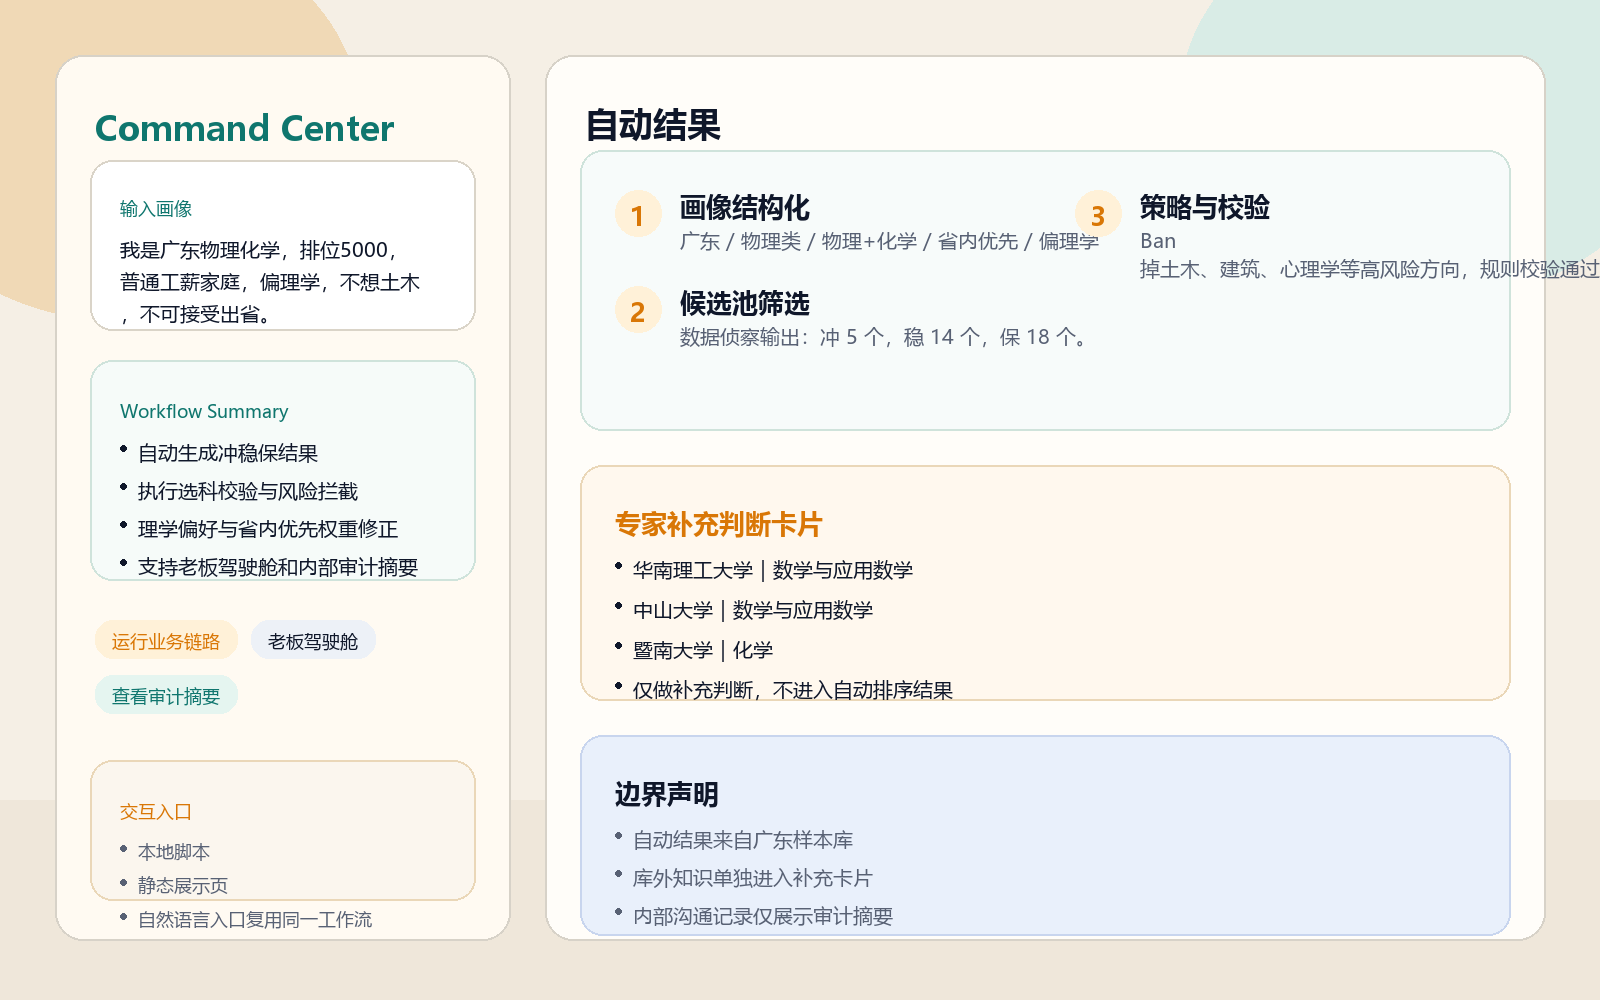
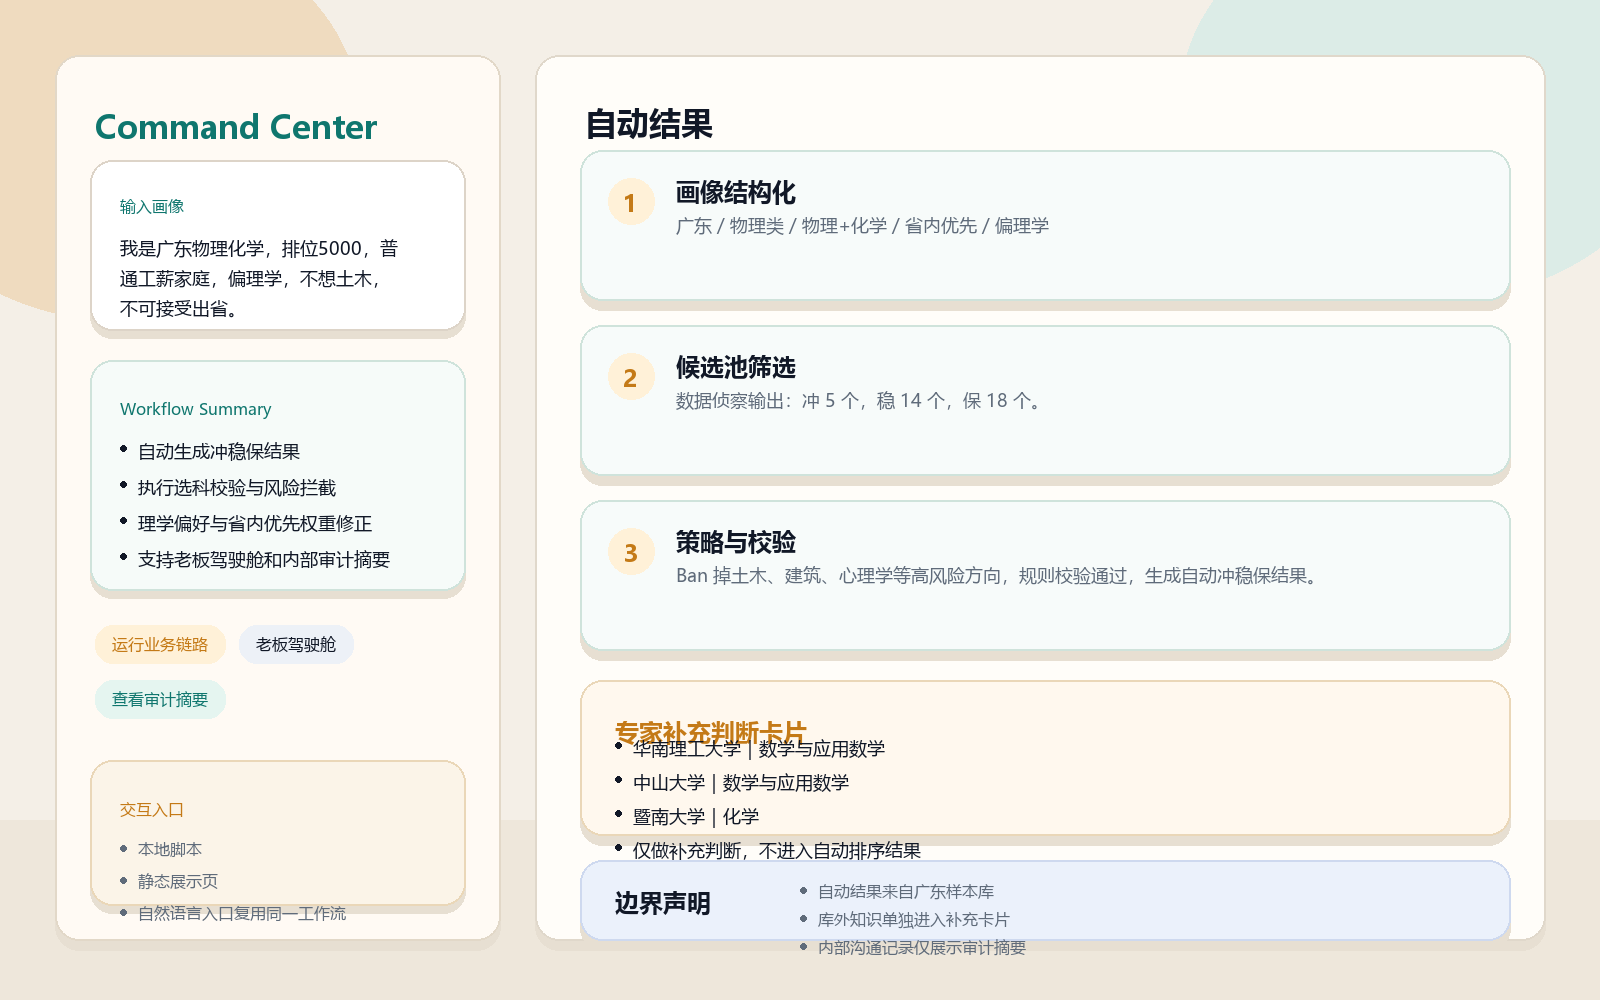
Refine portfolio presentation

Changed region(s): [[0.0625, 0.062, 1.0, 0.961], [0.0625, 0.093, 0.25, 0.155], [0.5938, 0.403, 0.625, 0.434]]

diff --git a/scripts/generate_showcase_images.py b/scripts/generate_showcase_images.py
@@ -9,18 +9,18 @@ OUT_DIR.mkdir(parents=True, exist_ok=True)
 
 WIDTH = 1600
 HEIGHT = 1000
-BG = "#f5efe5"
-INK = "#0f172a"
+BG = "#f4efe7"
+INK = "#111827"
 TEAL = "#0f766e"
-COPPER = "#d97706"
-CARD = "#fffdf8"
-MUTED = "#586174"
-LINE = "#d7d2c8"
-SOFT = "#eef7f4"
-BLUE = "#e9f0fb"
-BLUE_LINE = "#c8d5ee"
-SAND = "#fbf6ee"
-SHADOW = "#e7e1d6"
+COPPER = "#c47a17"
+CARD = "#fffdf9"
+MUTED = "#5f6b7a"
+LINE = "#ddd4c7"
+SOFT = "#edf7f4"
+BLUE = "#ebf1fb"
+BLUE_LINE = "#ced9ef"
+SAND = "#fbf4e8"
+SHADOW = "#e7dfd2"
 
 
 def load_font(size: int, bold: bool = False):
@@ -35,11 +35,11 @@ def load_font(size: int, bold: bool = False):
     return ImageFont.load_default()
 
 
-TITLE = load_font(46, bold=True)
-H2 = load_font(34, bold=True)
-H3 = load_font(26, bold=True)
-BODY = load_font(20)
-SMALL = load_font(18)
+TITLE = load_font(42, bold=True)
+H2 = load_font(32, bold=True)
+H3 = load_font(24, bold=True)
+BODY = load_font(18)
+SMALL = load_font(16)
 
 
 def rounded(draw, box, radius=28, fill=CARD, outline=LINE, width=2):
@@ -118,9 +118,15 @@ def pill(draw, xy, label, fill="#eef3f7", ink=INK):
     return x + w + 14
 
 
+def elevated_card(draw, box, radius=24, fill=CARD, outline=LINE, shadow_offset=10):
+    x1, y1, x2, y2 = box
+    draw.rounded_rectangle((x1, y1 + shadow_offset, x2, y2 + shadow_offset), radius=radius, fill=SHADOW)
+    rounded(draw, box, radius=radius, fill=fill, outline=outline)
+
+
 def metric_block(draw, box, eyebrow, title, lines, fill="#fffaf2", outline=LINE):
     x1, y1, x2, y2 = box
-    rounded(draw, box, radius=24, fill=fill, outline=outline)
+    elevated_card(draw, box, radius=24, fill=fill, outline=outline)
     text(draw, (x1 + 30, y1 + 28), eyebrow, SMALL, TEAL)
     text(draw, (x1 + 30, y1 + 68), title, H3, INK)
     draw_bullets(draw, (x1 + 30, y1 + 122), lines, BODY, MUTED, MUTED, x2 - x1 - 70, 12)
@@ -132,12 +138,20 @@ def number_badge(draw, xy, label, fill="#fff1d8", ink=COPPER):
     text(draw, (x + 15, y + 8), label, H3, ink)
 
 
+def step_card(draw, box, number, title, content, fill="#f7fbfa", outline="#cfe3db"):
+    x1, y1, x2, y2 = box
+    elevated_card(draw, box, radius=22, fill=fill, outline=outline)
+    number_badge(draw, (x1 + 28, y1 + 28), number)
+    text(draw, (x1 + 96, y1 + 24), title, H3, INK)
+    draw_wrapped_text(draw, (x1 + 96, y1 + 62), content, BODY, x2 - x1 - 130, MUTED, 8)
+
+
 def make_canvas():
     image = Image.new("RGB", (WIDTH, HEIGHT), BG)
     draw = ImageDraw.Draw(image)
-    draw.ellipse((-120, -80, 360, 320), fill="#f0d9b6")
-    draw.ellipse((1180, -100, 1680, 300), fill="#d9ece6")
-    draw.rectangle((0, 800, WIDTH, HEIGHT), fill="#efe7da")
+    draw.ellipse((-120, -80, 360, 320), fill="#efdbbf")
+    draw.ellipse((1180, -100, 1680, 300), fill="#dcece7")
+    draw.rectangle((0, 820, WIDTH, HEIGHT), fill="#eee7db")
     return image, draw
 
 
@@ -149,10 +163,7 @@ def save(image: Image.Image, name: str):
 
 def overview():
     image, draw = make_canvas()
-    rounded(draw, (60, 60, 1030, 940), fill="#fffaf2")
-    rounded(draw, (1060, 60, 1540, 300), fill=SOFT, outline="#cfe3db")
-    rounded(draw, (1060, 330, 1540, 600), fill=SAND, outline="#ead7b8")
-    rounded(draw, (1060, 630, 1540, 940), fill=BLUE, outline=BLUE_LINE)
+    elevated_card(draw, (60, 60, 1030, 940), fill="#fffaf4", outline="#e2d8c8")
 
     text(draw, (110, 110), "AI Gaokao BP Expert", SMALL, TEAL)
     title_lines = [
@@ -176,7 +187,7 @@ def overview():
     metric_block(
         draw,
         (110, 585, 980, 885),
-        "Design Principles",
+        "Product Principles",
         "核心设计原则",
         [
             "业务拆分优先于单次问答，关键步骤必须可单独审计。",
@@ -205,7 +216,7 @@ def overview():
         fill=SAND,
         outline="#ead7b8",
     )
-    rounded(draw, (1060, 630, 1540, 940), radius=24, fill=BLUE, outline=BLUE_LINE)
+    elevated_card(draw, (1060, 630, 1540, 940), radius=24, fill=BLUE, outline=BLUE_LINE)
     text(draw, (1095, 670), "一句话定位", SMALL, TEAL)
     draw_wrapped_text(
         draw,
@@ -221,23 +232,23 @@ def overview():
 
 def command_center():
     image, draw = make_canvas()
-    rounded(draw, (55, 55, 510, 940), fill="#fffaf2")
-    rounded(draw, (545, 55, 1545, 940), fill="#fffdf9")
+    elevated_card(draw, (55, 55, 500, 940), fill="#fffaf4", outline="#e2d8c8")
+    elevated_card(draw, (535, 55, 1545, 940), fill="#fffdf9", outline="#e0d8cb")
 
     text(draw, (95, 105), "Command Center", H2, TEAL)
-    rounded(draw, (90, 160, 475, 330), radius=22, fill="#ffffff", outline="#dad4c8")
+    elevated_card(draw, (90, 160, 465, 330), radius=22, fill="#ffffff", outline="#ddd4c8", shadow_offset=8)
     text(draw, (120, 195), "输入画像", SMALL, TEAL)
     draw_wrapped_text(
         draw,
         (120, 235),
         "我是广东物理化学，排位5000，普通工薪家庭，偏理学，不想土木，不可接受出省。",
         BODY,
-        300,
+        280,
         INK,
         12,
     )
 
-    rounded(draw, (90, 360, 475, 580), radius=22, fill="#f6fbf9", outline="#cfe3db")
+    elevated_card(draw, (90, 360, 465, 590), radius=22, fill="#f6fbf9", outline="#cfe3db", shadow_offset=8)
     text(draw, (120, 398), "Workflow Summary", SMALL, TEAL)
     draw_bullets(
         draw,
@@ -251,16 +262,16 @@ def command_center():
         BODY,
         INK,
         INK,
-        300,
+        280,
         12,
     )
 
     x = 95
-    x = pill(draw, (x, 620), "运行业务链路", "#fff1d8", COPPER)
-    x = pill(draw, (x, 620), "老板驾驶舱", "#edf1f7", INK)
-    pill(draw, (95, 675), "查看审计摘要", "#e5f5f0", TEAL)
+    x = pill(draw, (x, 625), "运行业务链路", "#fff1d8", COPPER)
+    x = pill(draw, (x, 625), "老板驾驶舱", "#edf1f7", INK)
+    pill(draw, (95, 680), "查看审计摘要", "#e5f5f0", TEAL)
 
-    rounded(draw, (90, 760, 475, 900), radius=22, fill=SAND, outline="#ead7b8")
+    elevated_card(draw, (90, 760, 465, 905), radius=22, fill=SAND, outline="#ead7b8", shadow_offset=8)
     text(draw, (120, 798), "交互入口", SMALL, COPPER)
     draw_bullets(
         draw,
@@ -274,22 +285,15 @@ def command_center():
     )
 
     text(draw, (585, 100), "自动结果", H2, INK)
-    rounded(draw, (580, 150, 1510, 430), radius=22, fill="#f7fbfa", outline="#cfe3db")
-    number_badge(draw, (615, 190), "1")
-    text(draw, (680, 188), "画像结构化", H3, INK)
-    draw_wrapped_text(draw, (680, 226), "广东 / 物理类 / 物理+化学 / 省内优先 / 偏理学", BODY, 760, MUTED, 8)
-    number_badge(draw, (615, 286), "2")
-    text(draw, (680, 284), "候选池筛选", H3, INK)
-    draw_wrapped_text(draw, (680, 322), "数据侦察输出：冲 5 个，稳 14 个，保 18 个。", BODY, 760, MUTED, 8)
-    number_badge(draw, (1075, 190), "3")
-    text(draw, (1140, 188), "策略与校验", H3, INK)
-    draw_wrapped_text(draw, (1140, 226), "Ban 掉土木、建筑、心理学等高风险方向，规则校验通过。", BODY, 320, MUTED, 8)
+    step_card(draw, (580, 150, 1510, 300), "1", "画像结构化", "广东 / 物理类 / 物理+化学 / 省内优先 / 偏理学", fill="#f7fbfa", outline="#cfe3db")
+    step_card(draw, (580, 325, 1510, 475), "2", "候选池筛选", "数据侦察输出：冲 5 个，稳 14 个，保 18 个。", fill="#f7fbfa", outline="#cfe3db")
+    step_card(draw, (580, 500, 1510, 650), "3", "策略与校验", "Ban 掉土木、建筑、心理学等高风险方向，规则校验通过，生成自动冲稳保结果。", fill="#f7fbfa", outline="#cfe3db")
 
-    rounded(draw, (580, 465, 1510, 700), radius=22, fill="#fff8ee", outline="#ead7b8")
-    text(draw, (615, 505), "专家补充判断卡片", H3, COPPER)
+    elevated_card(draw, (580, 680, 1510, 835), radius=22, fill="#fff8ee", outline="#ead7b8")
+    text(draw, (615, 715), "专家补充判断卡片", H3, COPPER)
     draw_bullets(
         draw,
-        (615, 555),
+        (615, 735),
         [
             "华南理工大学｜数学与应用数学",
             "中山大学｜数学与应用数学",
@@ -300,28 +304,28 @@ def command_center():
         INK,
         INK,
         820,
-        14,
+        10,
     )
 
-    rounded(draw, (580, 735, 1510, 935), radius=22, fill=BLUE, outline=BLUE_LINE)
-    text(draw, (615, 775), "边界声明", H3, INK)
+    elevated_card(draw, (580, 860, 1510, 940), radius=22, fill=BLUE, outline=BLUE_LINE)
+    text(draw, (615, 885), "边界声明", H3, INK)
     draw_bullets(
         draw,
-        (615, 825),
+        (800, 880),
         ["自动结果来自广东样本库", "库外知识单独进入补充卡片", "内部沟通记录仅展示审计摘要"],
-        BODY,
+        SMALL,
         MUTED,
         MUTED,
-        820,
-        12,
+        680,
+        6,
     )
     return save(image, "02-command-center.png")
 
 
 def trace_boardroom():
     image, draw = make_canvas()
-    rounded(draw, (55, 55, 870, 940), fill="#fffdf9")
-    rounded(draw, (910, 55, 1545, 940), fill="#f7f7fb")
+    elevated_card(draw, (55, 55, 870, 940), fill="#fffdf9", outline="#e0d8cb")
+    elevated_card(draw, (910, 55, 1545, 940), fill="#f7f7fb", outline="#d7dbe6")
 
     text(draw, (95, 100), "内部审计摘要", H2, TEAL)
     steps = [
@@ -335,7 +339,7 @@ def trace_boardroom():
     ]
     y = 165
     for idx, actor, summary in steps:
-        rounded(draw, (95, y, 830, y + 92), radius=18, fill="#ffffff", outline="#d8dde7")
+        elevated_card(draw, (95, y, 830, y + 92), radius=18, fill="#ffffff", outline="#d8dde7", shadow_offset=6)
         rounded(draw, (115, y + 20, 160, y + 65), radius=20, fill="#fff1d8", outline="#fff1d8", width=1)
         text(draw, (130, y + 28), idx, H3, COPPER)
         text(draw, (190, y + 16), actor, H3, INK)
@@ -343,7 +347,7 @@ def trace_boardroom():
         y += 104
 
     text(draw, (945, 100), "老板驾驶舱", H2, INK)
-    rounded(draw, (940, 155, 1515, 490), radius=22, fill="#fffaf2", outline="#e6d7bd")
+    elevated_card(draw, (940, 155, 1515, 490), radius=22, fill="#fffaf2", outline="#e6d7bd")
     draw_lines(
         draw,
         (970, 195),
@@ -362,7 +366,7 @@ def trace_boardroom():
         14,
     )
 
-    rounded(draw, (940, 525, 1515, 920), radius=22, fill=SOFT, outline="#cfe3db")
+    elevated_card(draw, (940, 525, 1515, 920), radius=22, fill=SOFT, outline="#cfe3db")
     text(draw, (970, 565), "审计结论", H3, TEAL)
     draw_bullets(
         draw,

diff --git a/README.md b/README.md
@@ -2,53 +2,43 @@
 
 把高考志愿这个高约束、高风险、强解释性的决策问题，做成一套真正可运行的 Multi-Agent 决策系统。
 
-这个项目不是“问一句答一句”的普通聊天机器人，而是把高考志愿拆成可审计、可复盘、可展示的业务链路：
+这个项目把“自然语言输入 -> 结构化画像 -> 候选池筛选 -> Ban/Pick -> 规则校验 -> 审计摘要”组织成一条完整工作流，而不是一次性的黑盒问答。
+
+## 项目摘要
 
 - 自动结果：基于广东 2024 本地样本库，自动生成冲 / 稳 / 保方案
 - 专家补充：把库外判断单独做成“人工专家补充判断卡片”，不伪装成自动结果
 - 审计摘要：把内部协作过程落盘为 trace 时间线和老板驾驶舱，保证可解释性
 
-## 项目亮点
-
-### 1. 不是单 Prompt，而是完整业务链路
+## 为什么这套设计成立
 
 - `客户经理 Agent`：做 intake，结构化提取排位、科类、家庭情况、偏好
 - `数据侦察 Agent`：从广东样本库筛出冲 / 稳 / 保候选池
 - `策略 Agent`：执行 Ban/Pick，优先考虑就业兑现率、城市机会与现实约束
 - `规则校验 Agent`：做选科匹配、去重、拦截、自动补位与风险提醒
 
-### 2. 自动结果和人工补充分层展示
-
 - 自动冲稳保方案只来自广东样本库
 - 库外或专家判断单独进入“人工专家补充判断卡片”
 - 避免把系统自动能力和人工补充判断混写，边界更清晰，更像真实产品
-
-### 3. 内部记录可审计，而不是假装会调源码
 
 - 每轮 workflow 会落盘 trace 时间线
 - 支持“老板驾驶舱”查看内部会审摘要
 - 内部沟通记录明确是 `审计摘要`，不是伪装出来的工具调用过程
 
-### 4. 一套项目，两种公开展示场景
+## 展示视图
 
 - `本地 Python 脚本`：适合开发和测试
 - `GitHub Pages 静态页`：适合截图、说明和公开展示
 
-## 核心产出
-
-### 自动结果
+## 核心输出
 
 - 输入自然语言画像后，自动输出冲 / 稳 / 保结果
 - 带 Ban 清单、风险提醒、家庭与就业建议
 - 对顶尖排位、理学偏好、省内优先等情况做了策略修正
 
-### 人工专家补充判断卡片
-
 - 专门承接样本库外知识，例如省外院校、理学高平台专业
 - 与自动结果分开展示
 - 明确标注“为什么适合”与“为什么不进自动结果”
-
-### 审计摘要
 
 - 内部 trace 时间线
 - 老板驾驶舱会审摘要
@@ -120,7 +110,7 @@ AI_Gaokao_BP_Expert/
 - [agent_boardroom.py](./scripts/agent_boardroom.py)
 - [showcase_roles.py](./scripts/showcase_roles.py)
 
-## 快速开始
+## 运行方式
 
 ### 1. 本地直接跑完整 workflow
 
@@ -128,13 +118,13 @@ AI_Gaokao_BP_Expert/
 python scripts/gaokao_workflow.py --text "我是广东物理化学，排位5000，普通工薪家庭，偏理学，不想土木，不可接受出省"
 ```
 
-### 2. 走微信同款自然语言入口
+### 2. 走路由入口
 
 ```bash
 python scripts/wechat_agent_router.py --session-id demo_user --text "我是广东物理化学，排位5000，普通工薪家庭，偏理学，不想土木，不可接受出省"
 ```
 
-你还可以继续发：
+可继续使用的查询：
 
 - `给我看老板驾驶舱`
 - `给我看内部沟通记录`
@@ -152,7 +142,7 @@ python -m http.server 8099
 
 `http://127.0.0.1:8099`
 
-### 4. 重新生成 README 展示图
+### 4. 重新生成展示图
 
 ```bash
 python scripts/generate_showcase_images.py
